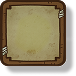
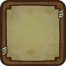
fix: correcciones UI v13 - cartas, botones HUD, etiquetas goblins y conjuros

diff --git a/index.html b/index.html
@@ -29,7 +29,7 @@
   <link href="https://fonts.googleapis.com/css2?family=MedievalSharp&family=Lato:wght@400;700&display=swap" rel="stylesheet">
 
   <!-- CSS principal -->
-  <link rel="stylesheet" href="style.css?v=12">
+  <link rel="stylesheet" href="style.css?v=13">
 
   <!-- Datos estructurados Schema.org -->
   <script type="application/ld+json">
@@ -212,7 +212,7 @@
       aria-describedby="popup-reto-text"
     >
       <div class="popup-box" id="popup-reto-box" tabindex="-1">
-        <!-- Categoría del hechizo (oculta visualmente, solo para aria) -->
+        <!-- Categoría del hechizo (oculta siempre — solo aria) -->
         <span id="popup-reto-category" class="popup-category-badge" hidden></span>
 
         <!-- Título del hechizo -->
@@ -221,10 +221,8 @@
         <!-- Texto/descripción del hechizo -->
         <p id="popup-reto-text" class="popup-text"></p>
 
-        <!-- Nota de conjuro persistente (visible solo en S01–S11) -->
-        <p id="popup-reto-persistent" class="popup-persistent-note" hidden>
-          🔮 Conjuro activo — permanece en juego
-        </p>
+        <!-- Nota de conjuro persistente — OCULTA siempre -->
+        <p id="popup-reto-persistent" class="popup-persistent-note" hidden style="display:none"></p>
 
         <!-- Indicador de toque -->
         <p class="popup-continue" aria-hidden="true">TOCA PARA CONTINUAR...</p>
@@ -247,15 +245,6 @@
 
         <button
           type="button"
-          id="btn-install-pwa"
-          class="settings-btn settings-btn--primary"
-          aria-label="Instalar aplicación en el dispositivo"
-        >
-          📱 Instalar app
-        </button>
-
-        <button
-          type="button"
           id="btn-restart"
           class="settings-btn settings-btn--danger"
           aria-label="Reiniciar partida y volver al inicio"
@@ -274,46 +263,13 @@
       </div>
     </div><!-- /popup-settings -->
 
-    <!-- ═══════════════════════════════════════════════════
-         POPUP: INSTRUCCIONES DE INSTALACIÓN PWA
-         ═══════════════════════════════════════════════════ -->
-    <div
-      id="popup-install-instructions"
-      class="popup-overlay"
-      role="dialog"
-      aria-modal="true"
-      aria-labelledby="install-title"
-    >
-      <div class="settings-box">
-        <h2 id="install-title" class="settings-title">📱 Cómo instalar</h2>
-        
-        <p class="popup-text" style="font-size: 0.9rem; color: var(--color-text-light); text-align: left; margin-bottom: var(--sp-sm);">
-          Para llevar la taberna goblin a tu pantalla de inicio:
-        </p>
-
-        <div style="font-size: 0.82rem; text-align: left; color: var(--color-text-muted); display: flex; flex-direction: column; gap: var(--sp-sm); line-height: 1.4;">
-          <p><strong>iOS (Safari):</strong> Pulsa el botón de <strong>Compartir</strong> 📤 y elige <strong>"Añadir a la pantalla de inicio"</strong>.</p>
-          <p><strong>Android / Chrome:</strong> Pulsa los tres puntos de menú ⋮ y elige <strong>"Instalar aplicación"</strong> (o pulsa aquí si tu navegador lo permite).</p>
-          <p><strong>Prueba Local:</strong> La instalación requiere abrir la app a través de un servidor local (ej: <code>http://localhost</code>). Si abres el archivo <code>index.html</code> directamente (protocolo <code>file://</code>), el navegador desactiva la instalación.</p>
-        </div>
-
-        <button
-          type="button"
-          id="btn-close-install"
-          class="settings-btn settings-btn--secondary"
-          style="margin-top: var(--sp-md); min-height: var(--touch-min);"
-          aria-label="Cerrar instrucciones de instalación"
-        >
-          Cerrar
-        </button>
-      </div>
-    </div><!-- /popup-install-instructions -->
+    <!-- popup-install-instructions eliminado -->
 
   </div><!-- /app -->
 
   <!-- Scripts — en el orden correcto de dependencias -->
-  <script src="spells.js?v=12" defer></script>
-  <script src="goblins.js?v=12" defer></script>
-  <script src="script.js?v=12" defer></script>
+  <script src="spells.js?v=13" defer></script>
+  <script src="goblins.js?v=13" defer></script>
+  <script src="script.js?v=13" defer></script>
 </body>
 </html>

diff --git a/style.css b/style.css
@@ -360,11 +360,11 @@ h3 {
 }
 
 .hud-potions {
-  /* 56×56px táctil cómodo */
-  width: 4.5rem;
-  height: 4.5rem;
-  min-width: 4.5rem;
-  min-height: 4.5rem;
+  /* 64×64px táctil cómodo */
+  width: 5.5rem;
+  height: 5.5rem;
+  min-width: 5.5rem;
+  min-height: 5.5rem;
   background: url('Assets/Fondos/fndo_pociones.png') center/100% 100% no-repeat;
   display: flex;
   align-items: center;
@@ -375,24 +375,24 @@ h3 {
 }
 
 .hud-potions img {
-  width: 1.5rem;
+  width: 2.2rem;
   height: auto;
 }
 
 .hud-potions-count {
   font-family: var(--font-display);
-  font-size: 1.2rem;
+  font-size: 1.5rem;
   color: var(--color-text-dark);
   font-weight: 700;
   line-height: 1;
 }
 
 #btn-settings {
-  /* 56×56px táctil cómodo */
-  width: 4.5rem;
-  height: 4.5rem;
-  min-width: 4.5rem;
-  min-height: 4.5rem;
+  /* 64×64px táctil cómodo */
+  width: 5.5rem;
+  height: 5.5rem;
+  min-width: 5.5rem;
+  min-height: 5.5rem;
   background: url('Assets/Botones/btn_fondoAjustes.png') center/100% 100% no-repeat;
   display: flex;
   align-items: center;
@@ -406,39 +406,21 @@ h3 {
 }
 
 #btn-settings img {
-  width: 1.6rem;
-  height: auto;
+  width: 2.2rem;
+  height: 2.2rem;
+  object-fit: contain;
+  display: block;
+  margin: auto;
   pointer-events: none;
 }
 
-/* — Área de conjuros activos — */
+/* — Área de conjuros activos — OCULTA completamente al usuario — */
 .active-spells-bar {
-  display: flex;
-  gap: var(--sp-xs);
-  padding: var(--sp-xs) var(--sp-sm);
-  overflow-x: auto;
-  scrollbar-width: none;
-  min-height: 0;
-  flex-shrink: 0;
-}
-
-.active-spells-bar::-webkit-scrollbar {
-  display: none;
-}
-
-.active-spells-bar:empty {
-  display: none;
+  display: none !important;
 }
 
 .spell-chip {
-  white-space: nowrap;
-  font-size: 0.7rem;
-  background: var(--color-spell-badge);
-  color: var(--color-parchment);
-  border: 1px solid var(--color-gold);
-  border-radius: 999px;
-  padding: 3px var(--sp-sm);
-  flex-shrink: 0;
+  display: none !important;
 }
 
 /* — Zona del goblin (centro) — */
@@ -508,10 +490,12 @@ h3 {
 .cards-area {
   display: flex;
   gap: var(--sp-sm);
-  padding: var(--sp-sm);
+  padding: var(--sp-sm) var(--sp-md);
   justify-content: center;
   align-items: center;
   z-index: var(--z-game);
+  /* Espacio extra para que las sombras de las cartas no se recorten */
+  overflow: visible;
 }
 
 .card-slot {
@@ -524,6 +508,7 @@ h3 {
   cursor: pointer;
   flex-shrink: 0;
   transition: transform var(--transition-fast);
+  /* Sin overflow:hidden para que box-shadow y bordes no se corten */
 }
 
 .card-slot:not(.revealed):hover {
@@ -550,7 +535,7 @@ h3 {
   position: absolute;
   inset: 0;
   border-radius: var(--radius-sm);
-  overflow: hidden;
+  /* overflow: hidden eliminado — causaba que los bordes de las cartas se cortaran */
   box-shadow: var(--shadow-card);
   backface-visibility: hidden;
   -webkit-backface-visibility: hidden;

diff --git a/script.js b/script.js
@@ -113,17 +113,10 @@ function seleccionarGoblin(id) {
     cell.setAttribute('aria-checked', isSelected ? 'true' : 'false');
   });
 
-  // Mostrar info del goblin
+  // Mostrar info del goblin (sin etiquetas de rasgos)
   const infoEl = document.getElementById('goblin-info');
-  const rasgosHtml = goblin.rasgos.length
-    ? `<div class="goblin-rasgos">
-        ${goblin.rasgos.map((r) => `<span class="rasgo-badge">${r}</span>`).join('')}
-       </div>`
-    : '';
-
   infoEl.innerHTML = `
     <span class="goblin-info-desc">${goblin.descripcion}</span>
-    ${rasgosHtml}
   `;
 
   anunciarLiveRegion(`Goblin seleccionado.`);
@@ -961,7 +954,7 @@ document.addEventListener('DOMContentLoaded', () => {
   /* — Botones dentro del popup ajustes — */
   document.getElementById('btn-close-settings').addEventListener('click', cerrarAjustes);
   document.getElementById('btn-restart').addEventListener('click', reiniciarPartida);
-  document.getElementById('btn-install-pwa').addEventListener('click', instalarPWA);
+  // btn-install-pwa eliminado
 
   /* — Botón revivir — */
   document.getElementById('btn-revive').addEventListener('click', revivirGoblin);
@@ -983,16 +976,7 @@ document.addEventListener('DOMContentLoaded', () => {
     });
   }
 
-  /* — Inicializar visibilidad del botón de instalación según modo Standalone — */
-  const isStandalone = window.matchMedia('(display-mode: standalone)').matches || window.navigator.standalone === true;
-  const btnInstall = document.getElementById('btn-install-pwa');
-  if (btnInstall) {
-    if (isStandalone) {
-      btnInstall.hidden = true;
-    } else {
-      btnInstall.hidden = false; // Mostrar botón en el navegador normal
-    }
-  }
+  /* — Inicializar visibilidad del botón de instalación (botón eliminado) — */
 
   /* — PWA — */
   registrarServiceWorker();

diff --git a/sw.js b/sw.js
@@ -3,7 +3,7 @@
  * Cachea todos los assets estáticos para funcionamiento offline.
  */
 
-const CACHE_NAME = 'maltrago-v12';
+const CACHE_NAME = 'maltrago-v13';
 
 const ASSETS_TO_CACHE = [
   './',
